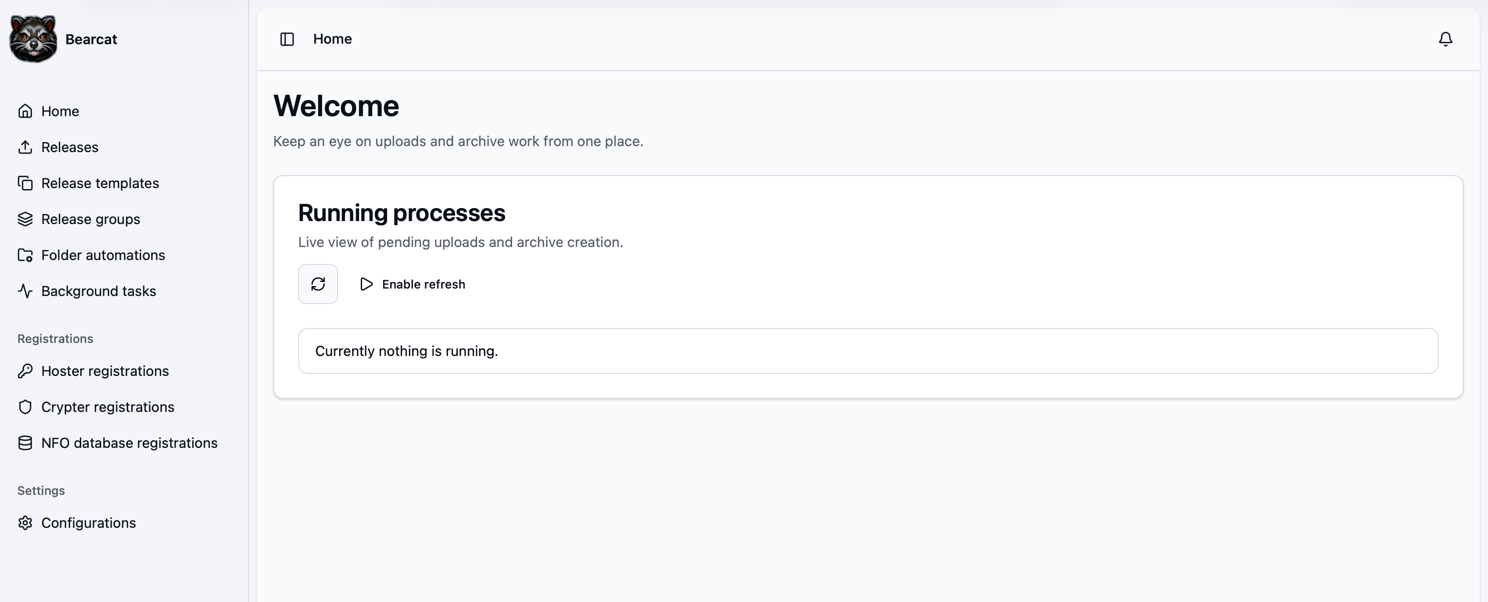
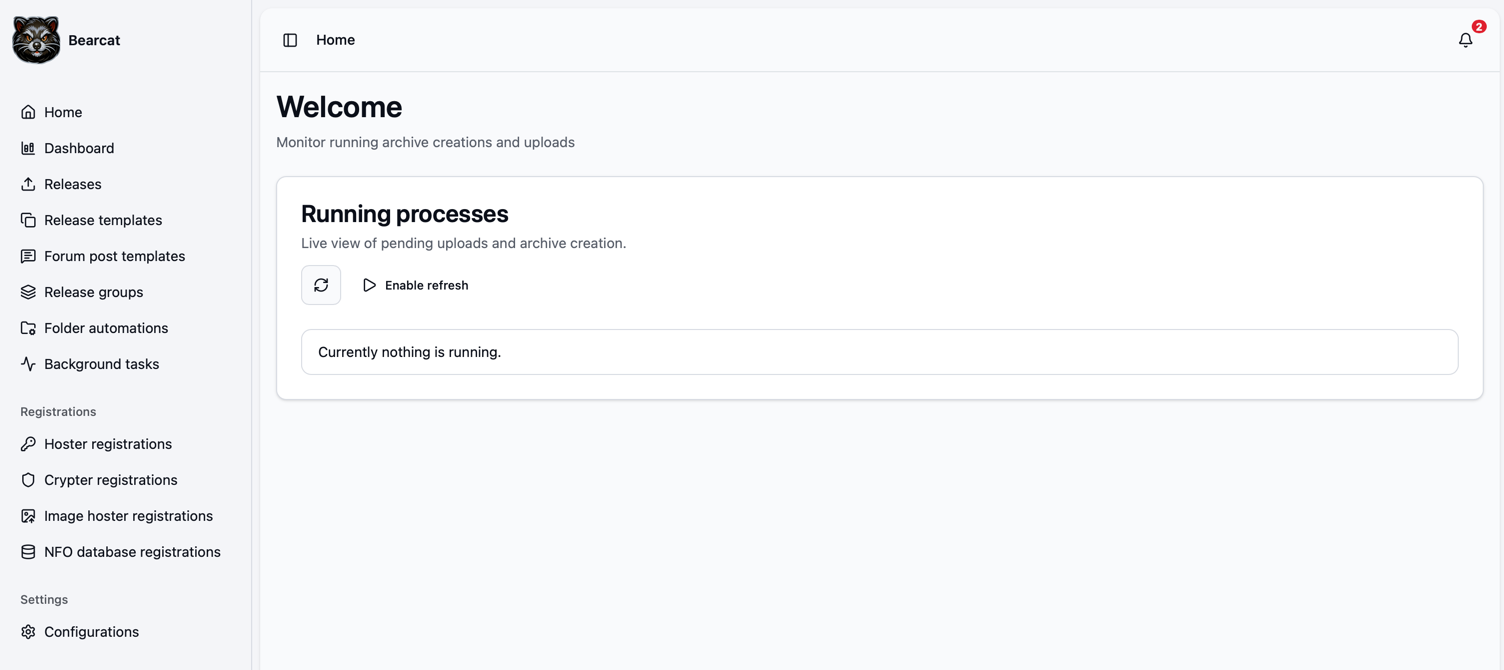
Adjust documentation

diff --git a/website/src/content/docs/post-installation.md b/website/src/content/docs/post-installation.md
@@ -38,6 +38,15 @@ The menu option "Crypter registrations" works the same way as the "Hoster regist
 The menu option "NFO database registrations" will (currently) only allow you to activate xrel.to.
 That's optional and doesn't need any credentials, but it's needed if you automatically want to fetch release related information.
 
+## Setting up image hoster accounts
+
+Some forums do not let you attach image files directly to a post.
+They only allow image links from supported image hosters.
+Bearcat can upload release cover images to an image hoster and make the returned links available in the release overview and in forum post templates.
+
+Open "Image hoster registrations" in the sidebar and click "New image hoster".
+Choose the image hoster and enter the required account information.
+
 
 ## Manually create a release
 
@@ -63,7 +72,7 @@ The detail page is the place where you connect all parts of the release:
 ![release-detail-page.png](images/release-detail-page.png)
 
 ### Overview Tab
-... shows the latest upload per upload configuration, download links, link crypter container links, archive passwords and the NFO copy button if a `.nfo` file exists in the release folder.
+... shows the latest upload per upload configuration, download links, link crypter container links, image links, archive passwords and the NFO copy button if a `.nfo` file exists in the release folder.
 It should be kind of a quick access to all information that you might need, if you want to share that release in forum.
 ![overview.png](images/overview.png)
 
@@ -91,6 +100,24 @@ You can also define, on which link crypters a containers for the upload links sh
 ![upload-links-dialog.png](images/upload-links-dialog.png)
 ![crypter-links-dialog.png](images/crypter-links-dialog.png)
 
+### Image upload configurations tab
+... defines to which image hoster registration the release cover should be uploaded.
+This is separate from the normal file upload configuration.
+
+![image-upload-config.png](images/image-upload-config.png)
+
+Bearcat only uploads an image when the release has a cover image URL.
+The cover URL normally comes from the release information that Bearcat fetched from an active NFO database registration.
+If no cover image is known for the release, there is nothing to upload and no image links will be created.
+
+### Image uploads tab
+... shows the image upload runs and the image URLs returned by the image hoster.
+
+![image-uploads.png](images/image-uploads.png)
+
+Depending on the image hoster, Bearcat may receive different image sizes, for example full size, medium size or thumbnail.
+The same links are also shown compactly in the release "Overview" tab, so you can copy them quickly when preparing a forum post.
+
 
 ## Create archive- and upload configurations 
 For a release, add at least one archive configuration and one upload configuration.
@@ -112,6 +139,16 @@ Choose the link crypter registration and optionally set a container password.
 Once the release has an upload configuration, Bearcat will create the initial upload automatically after the configured cooldown time.
 The background tasks create missing archives, upload them to the selected hosters, check the online state and create link crypter containers.
 You can watch the progress on the start page, in the "Uploads" tab of the release, in the notification center and on the "Background tasks" page.
+
+### Image upload configuration
+In the "Image upload configurations" tab, click "Add".
+Choose a name and the image hoster registration that should receive the release cover.
+
+The name is important if you want to use the image links in forum post templates.
+For example, a configuration named `ImgBB Cover` can be used as `imagelinks.imgbb_cover.full` in a template.
+
+Bearcat uploads the cover image automatically once a cover URL exists for the release.
+If the release information does not contain a cover URL, Bearcat simply skips the image upload.
 
 ## Setting up release groups
 
@@ -151,7 +188,7 @@ You can create a release template in two ways:
 - Open "Release templates" in the sidebar, click "New release template" and then add archive configurations, upload configurations and link crypters to the template.
 - Open an existing release, use the action menu in the top right and choose "Save as template".
 
-A release template stores the release group, archive configurations, upload configurations and link crypter settings.
+A release template stores the release group, archive configurations, upload configurations, image upload configurations and link crypter settings.
 When Bearcat creates a release from a template, the new release name is normally taken from the folder name.
 If an archive template is configured to use the release name as archive name, every automatically created release will get archive names based on its own folder name.
 

diff --git a/website/src/content/docs/forum-post-templates.md b/website/src/content/docs/forum-post-templates.md
@@ -12,6 +12,7 @@ This is useful when your posts should always follow the same structure, for exam
 - language, size and media information
 - NFO content inside a spoiler block
 - download sections for Rapidgator, DDownload or other upload configurations
+- cover image links from the image hosters, that you have configured
 - link crypter container links
 
 ![forum-post-templates-page.png](images/forum-post-templates-page.png)
@@ -42,6 +43,13 @@ Size: {{ release_info.size }}
 
 {{ end }}
 [/CENTER]
+```
+
+If you upload cover images to an image hoster, you can also place the cover directly in the post.
+For example, if your image upload configuration is named `ImgBB Cover`:
+
+```text
+[IMG]{{ imagelinks.imgbb_cover.full }}[/IMG]
 ```
 
 Click "Validate" to check the template syntax.
@@ -107,6 +115,38 @@ Inside `upload.link_crypters`, these variables are available:
 | `{{ crypter.container_link }}` | Generated container URL. |
 | `{{ crypter.created_at }}` | Container creation date. |
 
+## Image links
+
+Image links are available through `imagelinks`.
+Use the name of the image upload configuration and the image size you want to use.
+
+For this short form, Bearcat turns the configuration name into a template-friendly name:
+
+- spaces become `_`
+- letters become lowercase
+- punctuation is removed or replaced
+
+So an image upload configuration named `ImgBB Cover` becomes `imgbb_cover`.
+
+Common examples:
+
+| Variable | Description |
+| --- | --- |
+| `{{ imagelinks.imgbb_cover.full }}` | Full image URL for the `ImgBB Cover` image upload configuration. |
+| `{{ imagelinks.imgbb_cover.medium }}` | Medium image URL, if the image hoster returned one. |
+| `{{ imagelinks.imgbb_cover.thumbnail }}` | Thumbnail URL, if the image hoster returned one. |
+
+You can also use the original configuration name:
+
+```text
+{{ imagelinks["ImgBB Cover"].full }}
+```
+
+That is useful if you are not sure how the name will be normalized.
+
+Bearcat can only render image links after the cover image was uploaded.
+If a release has no cover image, or the image upload has not completed yet, the value stays empty.
+
 ## Scriban basics
 
 Bearcat uses Scriban syntax for placeholders.
@@ -142,8 +182,11 @@ Check out the [Scriban documentation](https://scriban.github.io/docs/language/) 
 Name upload configurations like you want them to appear in the forum post, for example `Rapidgator` or `DDownload`.
 That makes `{{ upload.name }}` useful directly in the rendered output.
 
+Name image upload configurations clearly, for example `ImgBB Cover`.
+That makes the template variable easy to read later: `{{ imagelinks.imgbb_cover.full }}`.
+
 Render the post only after the release has completed uploads and link crypter containers.
-Before that, upload and container variables may still be empty.
+Before that, upload, container and image link variables may still be empty.
 
 Keep forum-specific formatting in separate templates if you post to multiple forums.
 Different forums often support slightly different BBCode variants.

diff --git a/website/src/content/docs/advanced-configuration.md b/website/src/content/docs/advanced-configuration.md
@@ -43,6 +43,7 @@ Only disable a task if you intentionally want to pause that part of the system, 
 | Archive creation | Every 20 seconds | Creates missing archives for uploads that are waiting for an archive. If a matching archive already exists, it can reuse it instead of creating a new one. |
 | Archive cleanup | Every 30 minutes | Deletes local archive folders after their linked uploads have completed, if automatic archive cleanup is enabled in "Configurations". |
 | Archive upload | Every 20 seconds | Uploads pending archive files to the configured hosters and updates upload progress and final upload state. |
+| Image upload | Every 30 seconds | Uploads release cover images to configured image hosters when a cover image URL is available. |
 | Upload state check | Every 20 seconds | Checks whether uploaded files are still online, creates initial upload records after the configured cooldown and schedules automatic reuploads when release group rules allow it. |
 | Link crypter container creation | Every 20 seconds | Creates missing link crypter containers for completed uploads that have link crypter configurations. |
 
